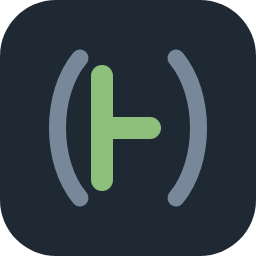
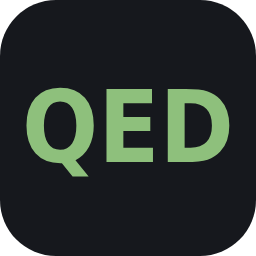
Make the mark Q.E.D., on a near-black plate
What ACL2 prints when a proof closes. The turnstile it replaces was wrong
for this prover: it belongs to sequent-style systems, and ACL2 is
Boyer-Moore -- untyped, executable, waterfall and induction. Its users do
not write turnstiles, so the mark read as "some theorem prover" rather than
this one.

The waterfall was tried and abandoned. Every abstract rendering collided
with an existing control -- the staircase reads as a flowchart connector,
the chevrons unmistakably as "scroll down" -- and the only way to make
something read as water is to draw a cliff and a pool, which would look like
a travel app in a row of editor tabs. Processes are hard to draw; results
are easy.

The plate is not decoration. `package.json`'s `icon` is one PNG with no
light/dark variants, shown on white in the marketplace and on the user's own
theme in the Extensions sidebar, so a transparent mark has to pick a single
green that reads on both -- and there isn't one. The current green on white
is 2.1:1; the mid-green that fixes white goes flat on dark. A plate makes
the background ours instead of the viewer's.

The tab icons stay transparent, because they sit on the themed tab bar where
a plate would look like a sticker, and `iconPath` does take light and dark
variants -- so each green is tuned to its own background.

The letters are outlines rather than <text>: these SVGs render on whatever
machine the extension is installed on, and DejaVu Sans may not be there.
[…]

Changed region(s): [[0.0938, 0.1875, 0.625, 0.8125], [0.6562, 0.1875, 0.9062, 0.8125]]

diff --git a/editors/vscode/tools/mkicon.py b/editors/vscode/tools/mkicon.py
@@ -1,0 +1,83 @@
+#!/usr/bin/env python3
+"""Build the extension's mark.
+
+The letters become outlines rather than <text>: the tab icons are shipped as
+SVG and rendered on whatever machine the extension is installed on, where
+DejaVu Sans may not exist. Converting here freezes the letterforms exactly as
+they were designed and drops the font dependency entirely.
+
+The design is `word('QED', y=162, x=22..234, size=100)` with
+lengthAdjust="spacingAndGlyphs" -- i.e. the natural word scaled horizontally
+to exactly 212 units. That scale is reproduced below rather than guessed.
+"""
+from fontTools.pens.svgPathPen import SVGPathPen
+from fontTools.ttLib import TTFont
+
+FONT = '/usr/share/fonts/truetype/dejavu/DejaVuSans-Bold.ttf'
+SIZE = 100.0          # font-size the design was drawn at
+X1, X2 = 22.0, 234.0  # the textLength span
+BASELINE = 162.0
+
+font = TTFont(FONT)
+upem = font['head'].unitsPerEm
+glyphset = font.getGlyphSet()
+cmap = font.getBestCmap()
+hmtx = font['hmtx']
+
+names = [cmap[ord(c)] for c in 'QED']
+advances = [hmtx[n][0] for n in names]
+natural = sum(advances) * SIZE / upem
+squeeze = (X2 - X1) / natural   # what spacingAndGlyphs applies
+
+# y flips: font units go up from the baseline, SVG goes down.
+scale = SIZE / upem
+paths, pen_x = [], 0.0
+for name, adv in zip(names, advances):
+    pen = SVGPathPen(glyphset)
+    glyphset[name].draw(pen)
+    d = pen.getCommands()
+    if d:
+        # Per glyph: place at its (squeezed) pen position, then scale.
+        x = X1 + pen_x * scale * squeeze
+        paths.append(
+            f'<path transform="translate({x:.3f} {BASELINE}) '
+            f'scale({scale * squeeze:.6f} {-scale:.6f})" d="{d}"/>'
+        )
+    pen_x += adv
+
+BODY = '\n    '.join(paths)
+print(f'natural width {natural:.2f} -> {X2 - X1} (squeeze {squeeze:.4f})')
+
+HEAD = """<!-- The extension's mark: Q.E.D., which is what ACL2 prints when a proof
+     closes.
+
+     Original work, deliberately. ACL2's own logo is BSD-licensed and could be
+     copied, but that licence forbids using the project's name to promote
+     derived works without written permission, and no permissive licence
+     grants trademark rights in a logo. This borrows neither.
+
+     The letters are outlines, not <text>: these are rendered on whatever
+     machine the extension is installed on, and DejaVu Sans may not be there.
+     Regenerate with tools/mkicon.py, do not hand-edit the path data. -->
+"""
+
+def write(path, body, plate, fill):
+    plate_rect = f'\n  <rect width="256" height="256" rx="56" fill="{plate}"/>' if plate else ''
+    open(path, 'w').write(
+        HEAD
+        + f'<svg xmlns="http://www.w3.org/2000/svg" width="256" height="256"'
+        f' viewBox="0 0 256 256">{plate_rect}\n  <g fill="{fill}">\n    {body}\n  </g>\n</svg>\n'
+    )
+    print('wrote', path)
+
+import sys
+out = sys.argv[1]
+# The marketplace icon: one asset for every surface, so it brings its own
+# background -- a transparent mark cannot pick a green that reads on both
+# white and near-black.
+write(f'{out}/icon.svg', BODY, '#16181d', '#8ec07c')
+# The tab icons sit on the themed tab bar, where a plate would look like a
+# sticker. Two variants, so each green is tuned to its own background rather
+# than splitting the difference.
+write(f'{out}/window-dark.svg', BODY, None, '#8ec07c')
+write(f'{out}/window-light.svg', BODY, None, '#3f7a35')

diff --git a/editors/vscode/README.md b/editors/vscode/README.md
@@ -130,16 +130,32 @@ comment, and of 244,608 definer heads none went unrecognized outside of the
 
 ## The mark
 
-`media/icon.svg` is a turnstile inside parentheses: the extension proves
-things, and what it proves them about is Lisp. Original work, deliberately.
-ACL2's own logo is BSD-licensed and could be copied, but that licence
-forbids using the project's name to promote derived works without written
-permission, and no permissive licence grants trademark rights in a logo.
-This borrows neither, so there is nothing to ask.
+`Q.E.D.` -- what ACL2 prints when a proof closes. Original work,
+deliberately. ACL2's own logo is BSD-licensed and could be copied, but that
+licence forbids using the project's name to promote derived works without
+written permission, and no permissive licence grants trademark rights in a
+logo. This borrows neither, so there is nothing to ask.
 
-The webview windows -- panel and console -- carry it as their tab icon.
-The output views cannot: they are text documents, and VSCode takes an editor
-tab's icon from the file icon theme with no per-document override.
+The marketplace icon brings its own near-black plate, because
+`package.json`'s `icon` is a single PNG with no light/dark variants: it is
+shown on white in the marketplace and on the user's own theme in the
+Extensions sidebar, and no one green reads well on both. The current green
+on white is 2.1:1. A plate makes the background ours rather than the
+viewer's, and the mark then reads everywhere.
+
+The tab icons are transparent instead, because they sit directly on the
+themed tab bar where a plate would look like a sticker -- and `iconPath`
+does take light and dark variants, so each green is tuned to its own
+background rather than splitting the difference. Panel and console carry
+them; the output views cannot, since they are text documents and VSCode
+takes an editor tab's icon from the file icon theme with no per-document
+override. At 16px on a 1x display three letters are a smudge; on the 2x
+display most people have, the tab renders at 32px, which holds.
+
+The letters are outlines, not `<text>`. These SVGs are rendered on whatever
+machine the extension is installed on, and DejaVu Sans may not be there.
+Regenerate with `python3 tools/mkicon.py media` (needs `fonttools`) rather
+than editing the path data; the PNG is that SVG rasterised at 256px.
 
 To keep another Lisp extension on `.lisp` instead, override the association:
 
